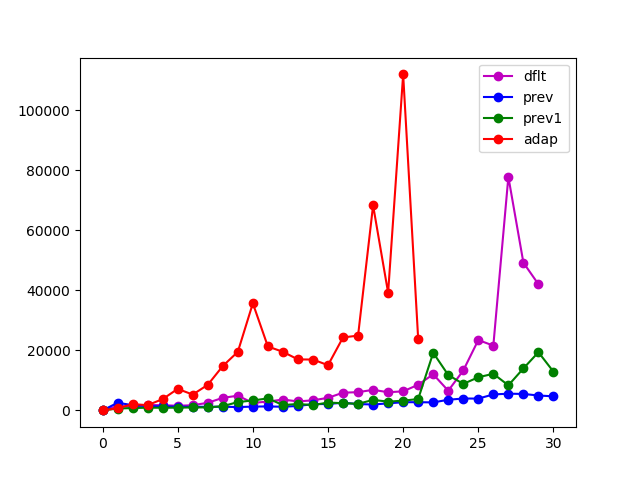
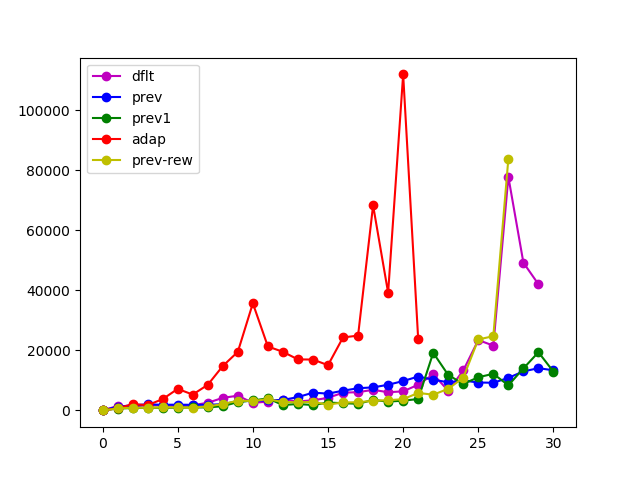
tumor2d.db for prev link updated, reweighted added to plots

diff --git a/tumor2d/eval/script_tumor2d_eval.py b/tumor2d/eval/script_tumor2d_eval.py
@@ -21,7 +21,7 @@ h_loaded_adap = pyabc.History("sqlite:////media/sf_shared/tumor2d_2.db")
 h_loaded_adap.id = 9
 
 h_loaded_prev = pyabc.History("sqlite:////media/sf_shared/tumor2d.db")
-h_loaded_prev.id = 1
+h_loaded_prev.id = 2
 
 h_loaded_prev1 = pyabc.History("sqlite:////media/sf_shared/tumor2d_1.db")
 h_loaded_prev1.id = 1
@@ -63,19 +63,22 @@ pops_dflt = h_loaded_dflt.get_all_populations()
 pops_prev = h_loaded_prev.get_all_populations()
 pops_prev1 = h_loaded_prev1.get_all_populations()
 pops_adap = h_loaded_adap.get_all_populations()
-    
+pops_prev_rew = h_loaded_prev_rew.get_all_populations()
+
 def samples():
     samples_dflt = pops_dflt['samples']
     samples_prev = pops_prev['samples']
     samples_prev1 = pops_prev1['samples']
     samples_adap = pops_adap['samples']
-    
+    samples_prev_rew = pops_prev_rew['samples']
+
     t = np.arange(0,40)
     fig = plt.figure()
     plt.plot(t[:30],samples_dflt.values[:30], 'mo-', label="dflt")
     plt.plot(t[:len(samples_prev.values)],samples_prev.values, 'bo-', label="prev")
     plt.plot(t[:len(samples_prev1.values)],samples_prev1.values, 'go-', label="prev1")
     plt.plot(t[:len(samples_adap.values)],samples_adap.values, 'ro-', label="adap")
+    plt.plot(t[:len(samples_prev_rew.values)],samples_prev_rew.values, 'yo-', label="prev-rew")
     plt.legend()
     fig.savefig("samples")
     plt.close()
@@ -87,6 +90,7 @@ def epsilon():
     eps_prev = pops_prev['epsilon']
     eps_prev1 = pops_prev1['epsilon']
     eps_adap = pops_adap['epsilon']
+    eps_prev_rew = pops_prev_rew['epsilon']
 
     t = np.arange(0,40)
     fig = plt.figure()
@@ -94,10 +98,11 @@ def epsilon():
     plt.plot(t[:len(eps_prev.values)],np.log(eps_prev.values), 'bo-', label="prev")
     plt.plot(t[:len(eps_prev1.values)],np.log(eps_prev1.values), 'go-', label="prev1")
     plt.plot(t[:len(eps_adap.values)],np.log(eps_adap.values), 'ro-', label="adap")
+    plt.plot(t[:len(eps_prev_rew.values)],np.log(eps_prev_rew.values), 'ro-', label="prev-rew")
     plt.legend()
     fig.savefig("eps")
     plt.close()
 
-kde_plots("prev_rew")
-#samples()
-#epsilon()
+#kde_plots("prev_rew")
+samples()
+epsilon()
